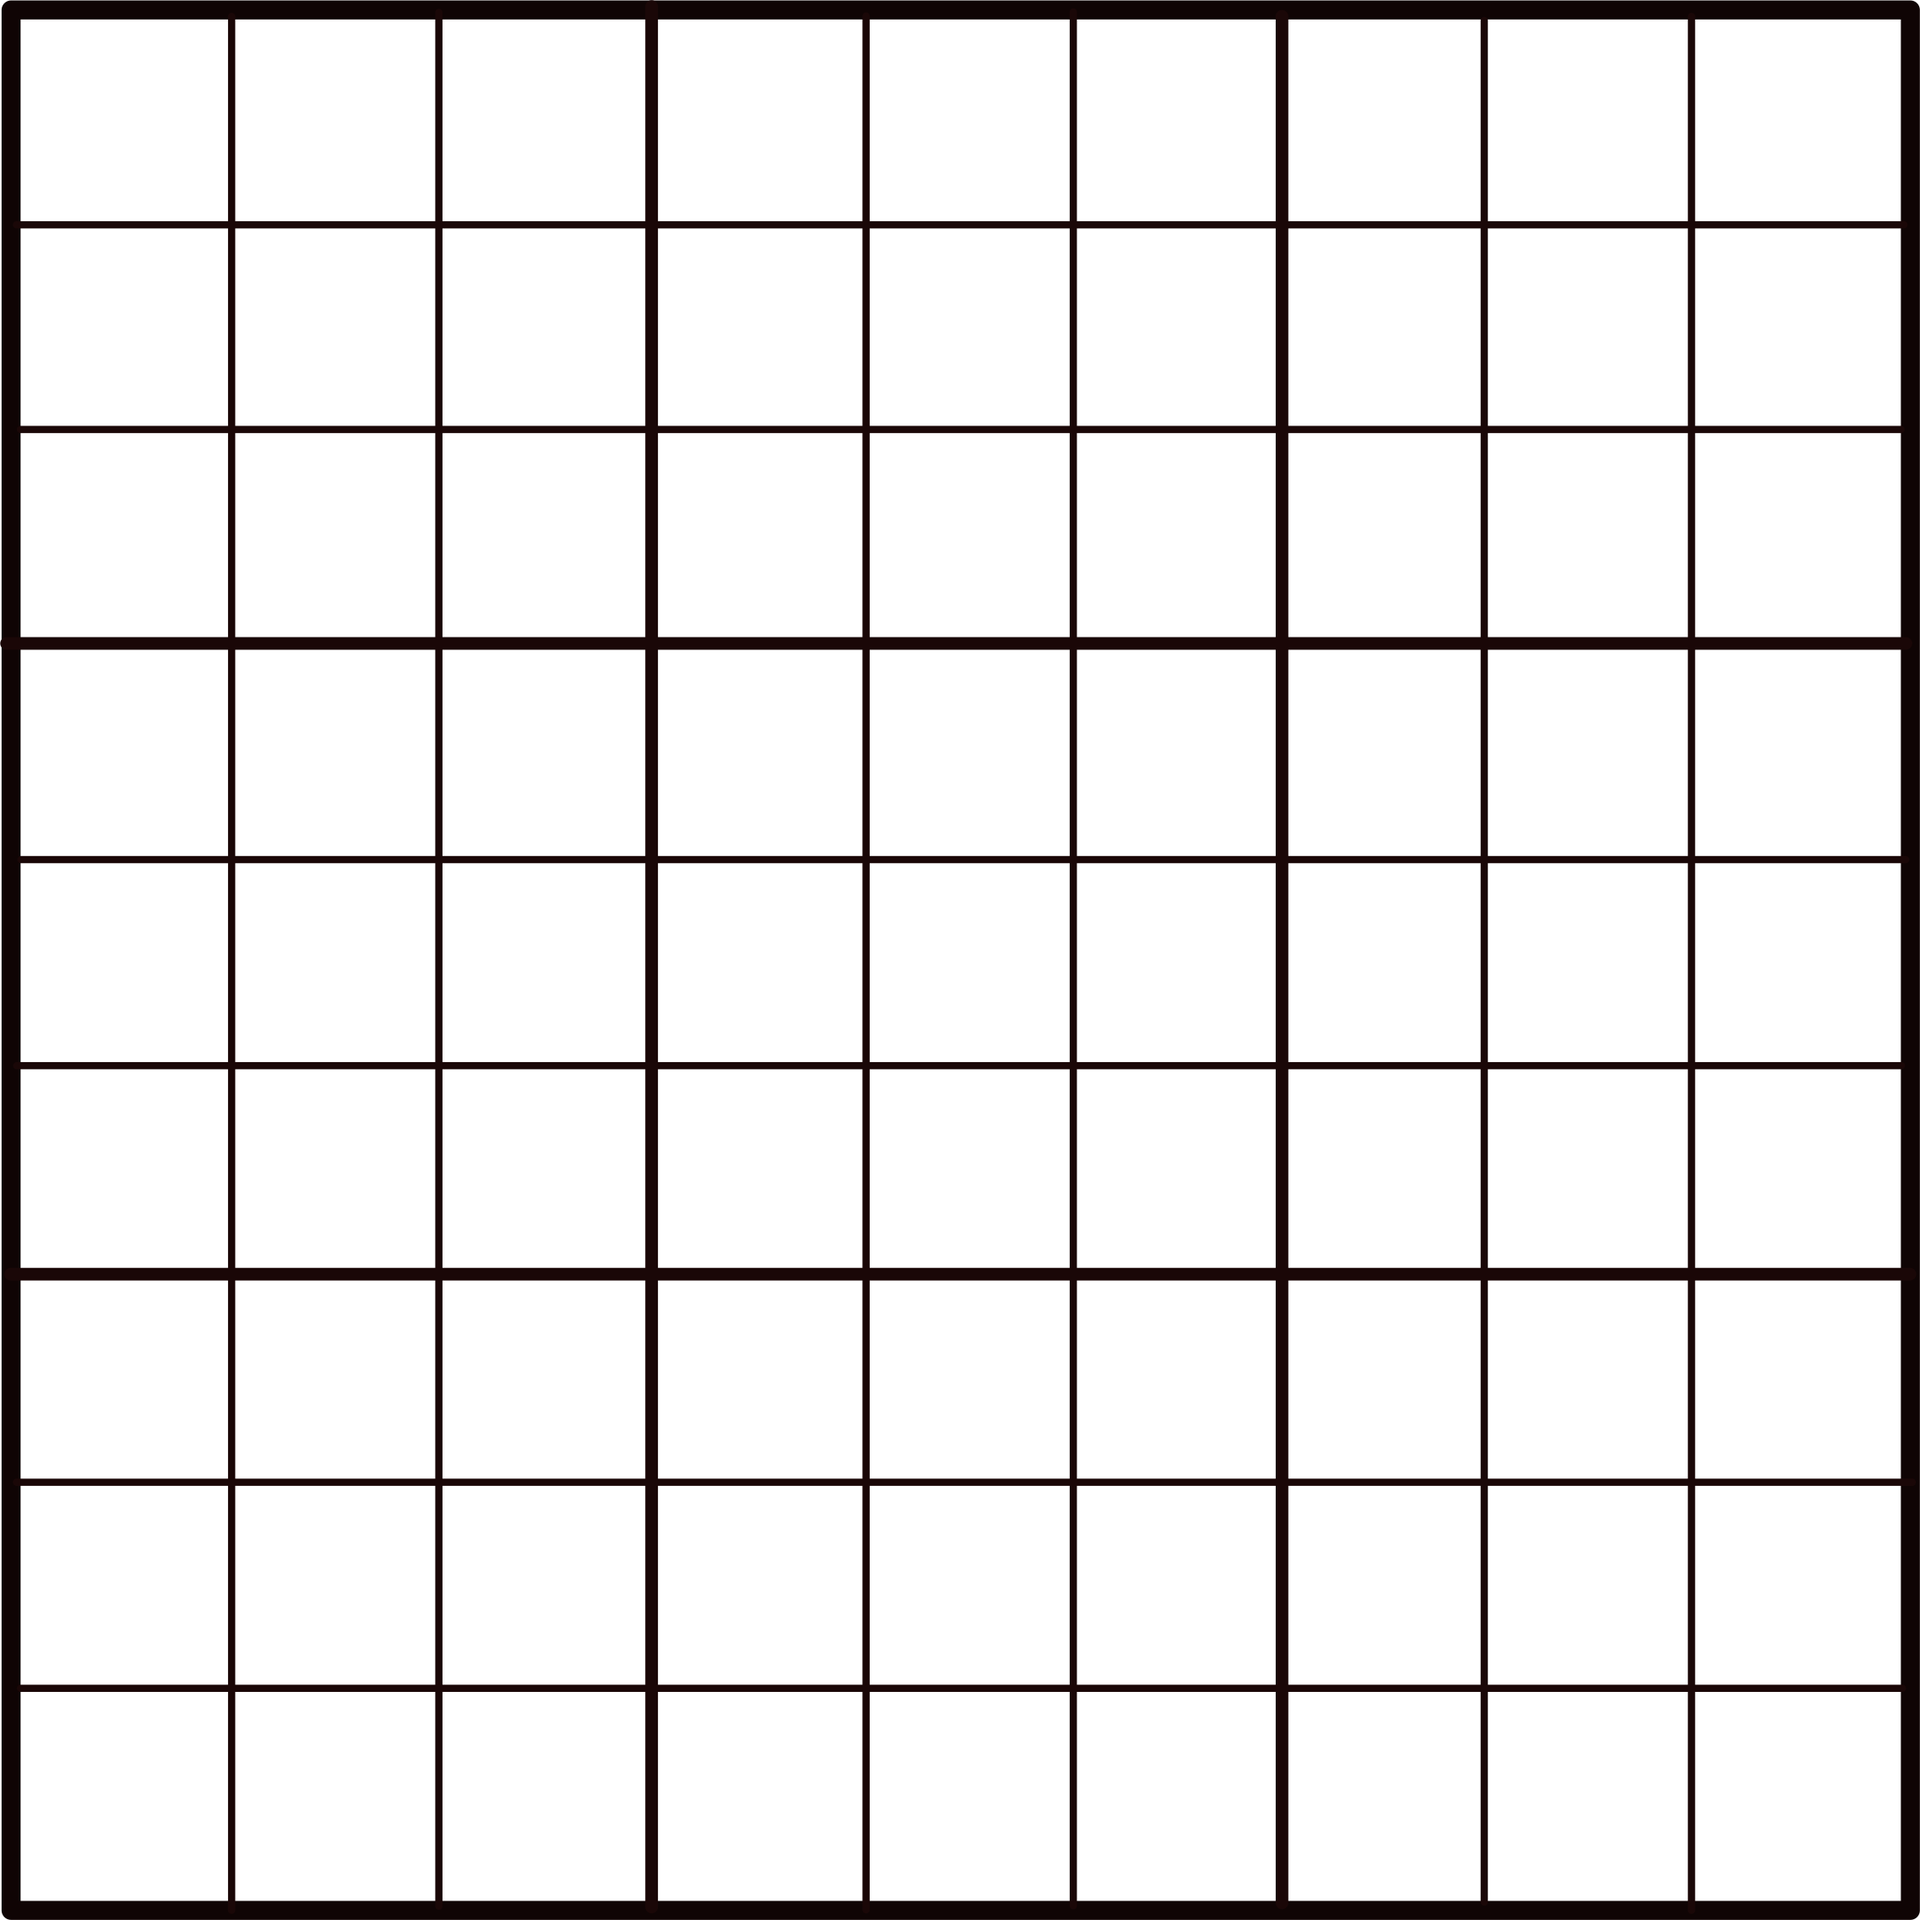
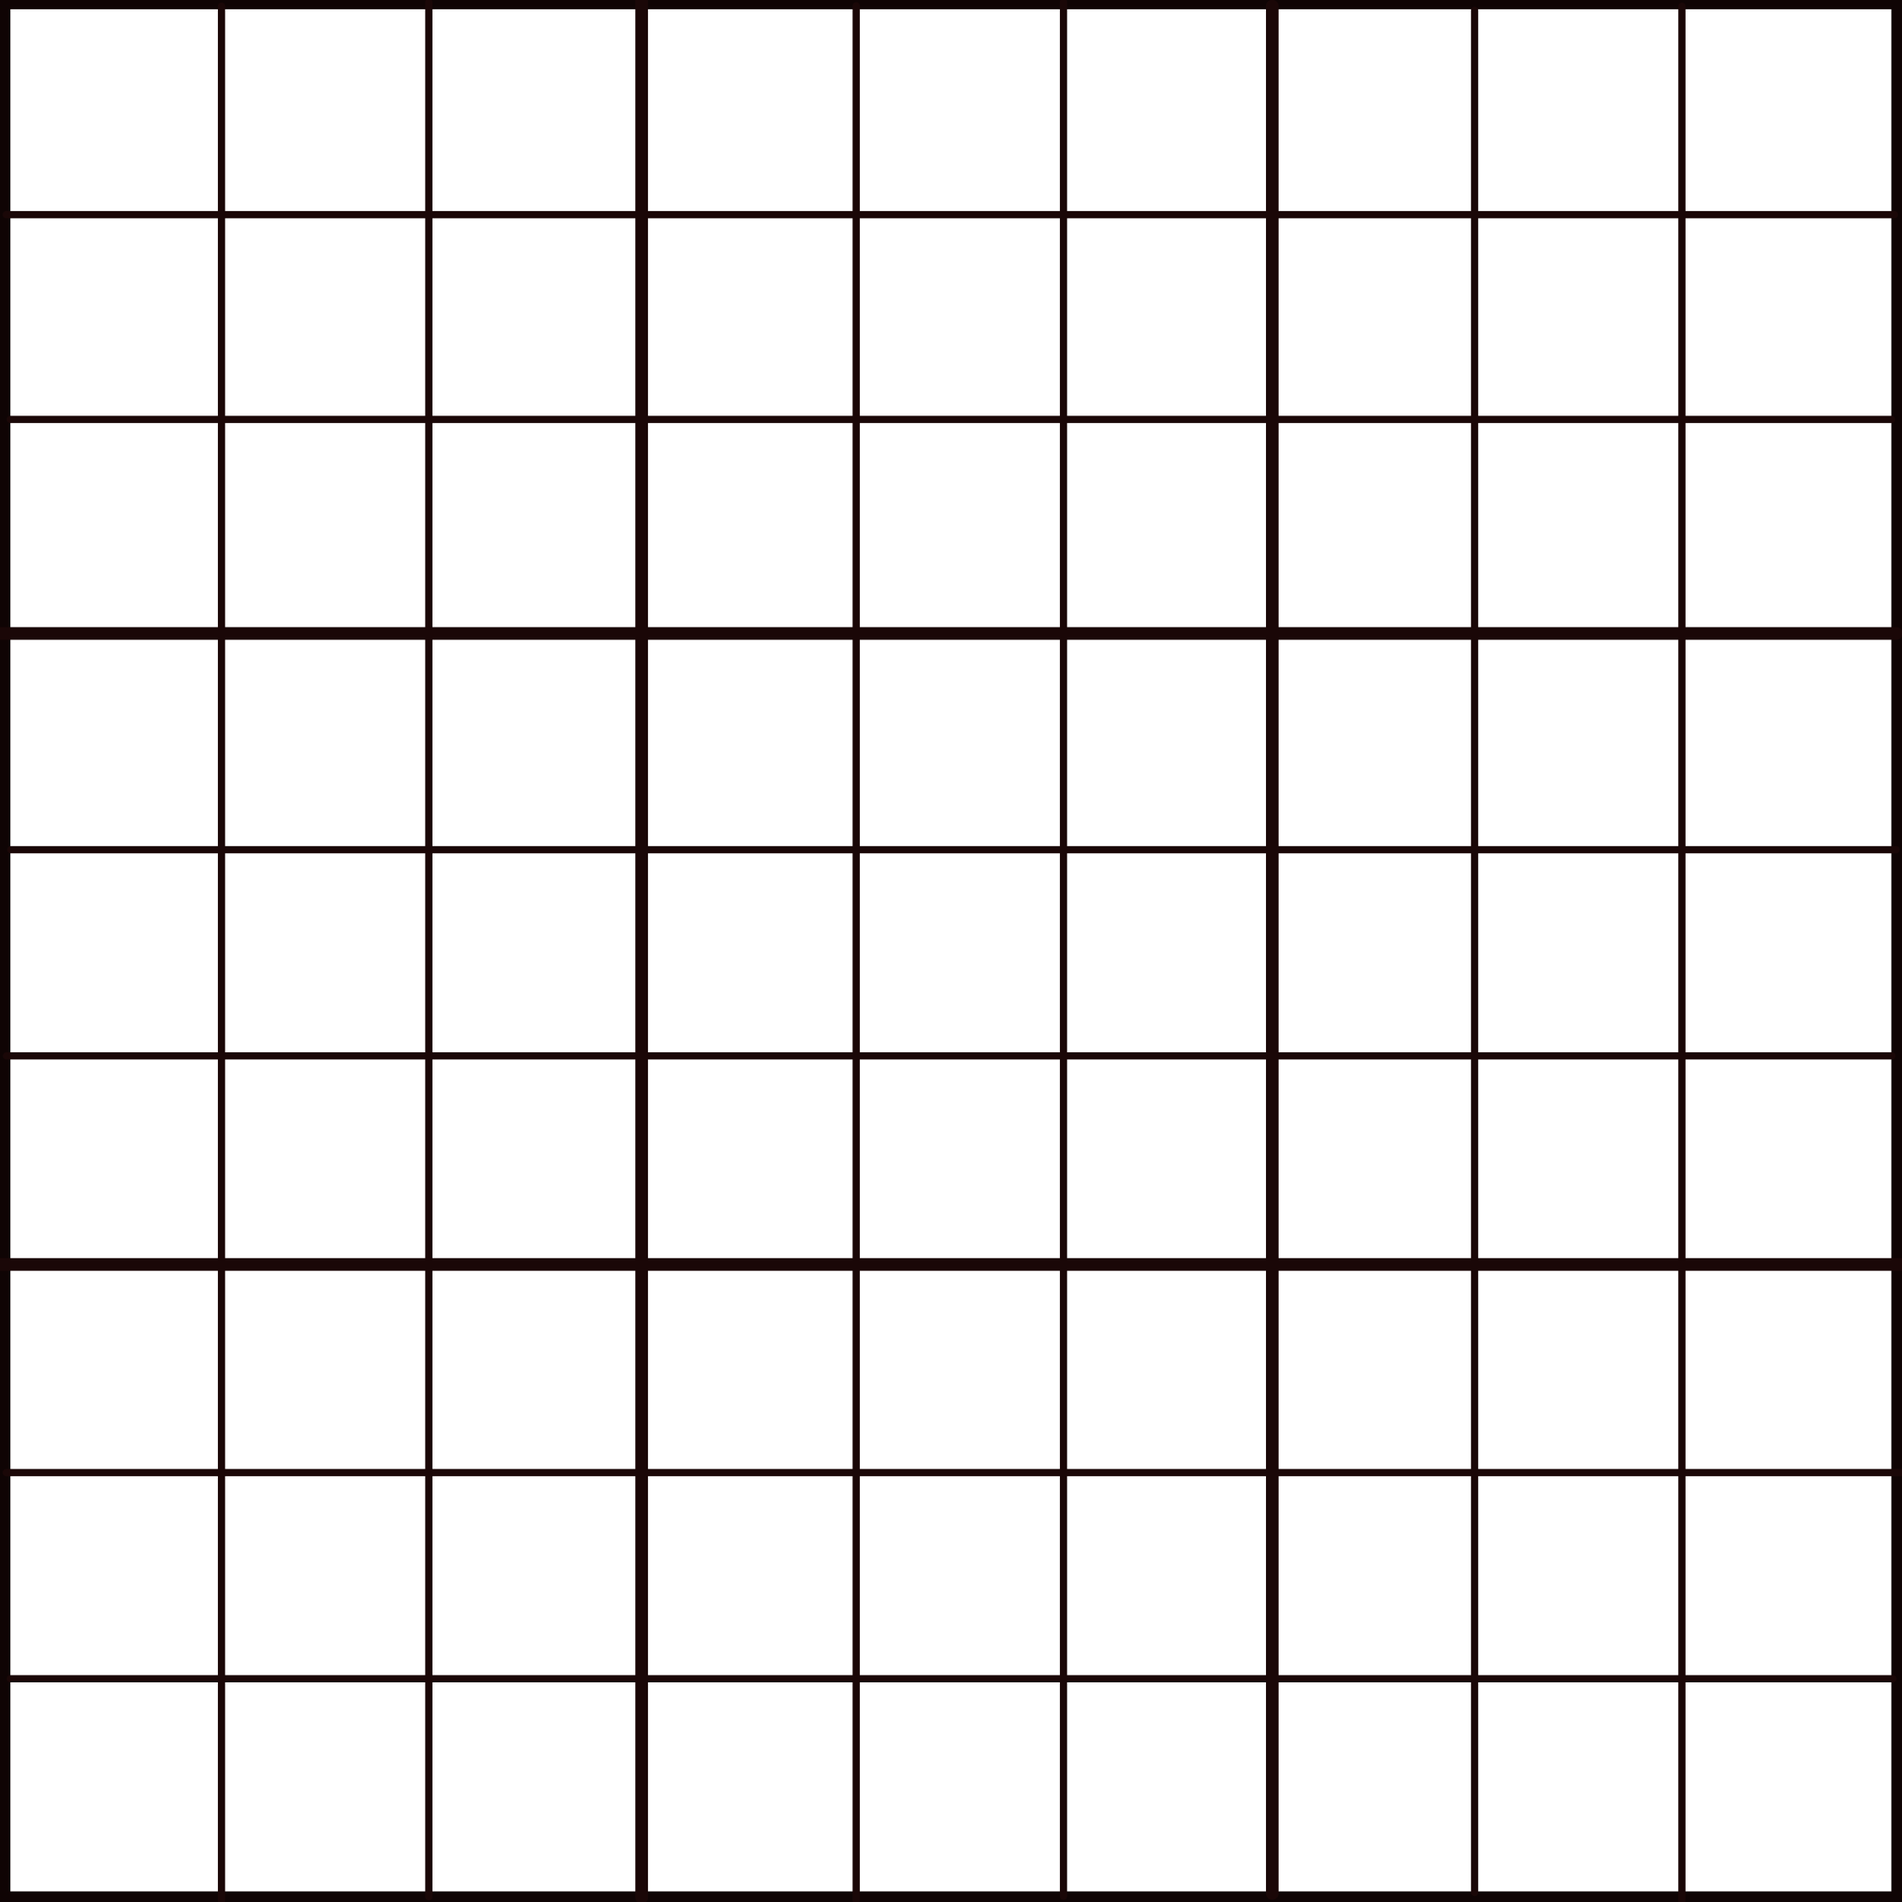
Added more functionality to tiles and tileboard - tweaked images

Changed region(s): [[0.0, 0.0, 1.0, 1.0], [0.4324, 0.556, 0.4633, 0.5868], [0.3089, 0.556, 0.3397, 0.5868]]

diff --git a/src/sudoku/GameState.java b/src/sudoku/GameState.java
@@ -22,23 +22,11 @@ public class GameState extends State {
     private Button pauseButton;
     private Button menuButton;
 
-    private Tile[] tiles = new Tile[9];
+    private Tile[] tiles = new Tile[81];
 
-//    private Tile number1Tile;
-//    private Tile number2Tile;
-//    private Tile number3Tile;
-//    private Tile number4Tile;
-//    private Tile number5Tile;
-//    private Tile number6Tile;
-//    private Tile number7Tile;
-//    private Tile number8Tile;
-//    private Tile number9Tile;
+    private Puzzle puzzle;
 
-    private TileBoard target;
-
-    private ArrayList<String> puzzles = new ArrayList<String>();
-//    private final int MAX_ROUNDS = 3;
-//    private int currentRound = 1;
+    private TileBoard tileBoard;
 
     // game states
     private enum GameStates {
@@ -62,12 +50,28 @@ public class GameState extends State {
 
         addBackground("resources/Blue-Background.jpg");
 
-//        loadPuzzles();
-        // create banner image and add animation
-//        banner = new ImageEntity(new Dimension((int)(0.4*width),(int) (0.3*height)), new Point((int)(width/2.0), (int) (-0.3*height)), 0);
-//        banner.addImage("resources/banner.png");
-//        banner.slide(new Point((int)(0.5*width), (int)(0.15*height)), 15);
-        target = new TileBoard(new Dimension((int) (0.72 * height), (int) (0.72 * height)), new Point((int) (0.4 * height), (int) (0.4 * height)));
+        String puzzleString = "2 4 8 5 3 9 6 7 1 6 7 5 4 1 2 8 9 3 3 9 1 6 7 8 2 4 5 7 1 2 8 6 3 9 5 4 4 3 6 1 9 5 7 8 2 5 8 9 2 4 7 1 3 6 8 2 4 9 5 6 3 1 7 9 5 7 3 2 1 4 6 8 1 6 3 7 8 4 5 2 9";
+        String maskString = "1 1 0 0 0 1 1 1 1 1 1 0 1 0 0 1 1 1 0 0 0 1 1 1 1 1 1 0 1 1 1 1 0 1 0 1 0 0 1 1 1 1 1 0 0 1 0 1 0 1 1 1 1 0 1 1 1 1 1 1 0 0 0 1 1 1 0 0 1 0 1 1 1 1 1 1 0 0 0 1 1";
+
+        puzzle = new Puzzle(puzzleString, maskString);
+
+        tileBoard = new TileBoard(new Dimension((int) (0.72 * height), (int) (0.72 * height)), new Point((int) (0.4 * height), (int) (0.4 * height)));
+
+        //creating tiles
+        for (int i = 0; i < 81; i++) {
+            if (puzzle.elementAtIndex(i) != 0) {
+                tiles[i] = new Tile(new Dimension((int) (height * 0.08), (int) (height * 0.08)),
+                        tileBoard.anchorAtIndex(i),
+                        puzzle.elementAtIndex(i));
+            } else {
+
+                tiles[i] = new Tile(new Dimension((int) (height * 0.08), (int) (height * 0.08)),
+                        new Point((int) (width / 2), (int) (height / 2)),
+                        9);
+                addMouseListener(tiles[i]);
+                addMouseMotionListener(tiles[i]);
+            }
+        }
 
         pauseButton = new Button((int) (0.25 * width), new Point((int) (0.9 * width), (int) (0.75 * height)), 0, "Pause", Button.ButtonType.MENU);
         addMouseListener(pauseButton);
@@ -77,17 +81,14 @@ public class GameState extends State {
 
         int xOffset = (int) (0.01 * height);
         //int xStart = (int)();
-        
-        
+
         // create and place tiles
-        for (int i = 0; i < tiles.length; i++) {
-            tiles[i] = new Tile(new Dimension((int) (height * 0.08), (int) (height * 0.08)), new Point((int) ((height * 0.11) + i * (height * 0.11)), (int) (height * 0.85)), i + 1);
-            addMouseListener(tiles[i]);
-            addMouseMotionListener(tiles[i]);
-
-        }
-
-
+//        for (int i = 0; i < tiles.length; i++) {
+//            tiles[i] = new Tile(new Dimension((int) (height * 0.08), (int) (height * 0.08)), new Point((int) ((height * 0.11) + i * (height * 0.11)), (int) (height * 0.85)), i + 1);
+//            addMouseListener(tiles[i]);
+//            addMouseMotionListener(tiles[i]);
+//
+//        }
     }
 
     @Override
@@ -95,7 +96,7 @@ public class GameState extends State {
 
         super.paintComponent(g);
 
-        target.paint(bufferedGraphics);
+        tileBoard.paint(bufferedGraphics);
         //banner.paint(bufferedGraphics);
         pauseButton.paint(bufferedGraphics);
         menuButton.paint(bufferedGraphics);
@@ -103,16 +104,6 @@ public class GameState extends State {
         for (int i = 0; i < tiles.length; i++) {
             tiles[i].paint(bufferedGraphics);
         }
-
-//        number1Tile.paint(bufferedGraphics);
-//        number2Tile.paint(bufferedGraphics);
-//        number3Tile.paint(bufferedGraphics);
-//        number4Tile.paint(bufferedGraphics);
-//        number5Tile.paint(bufferedGraphics);
-//        number6Tile.paint(bufferedGraphics);
-//        number7Tile.paint(bufferedGraphics);
-//        number8Tile.paint(bufferedGraphics);
-//        number9Tile.paint(bufferedGraphics);
 
         if (screenMessageCounter > 0) {
             bufferedGraphics.setColor(Color.YELLOW);
@@ -172,23 +163,21 @@ public class GameState extends State {
             //banner.update();
             pauseButton.update();
             menuButton.update();
-            
-            
+
             // Collision detection - was the tile dropped
-            for (int i = 0; i < tiles.length; i++) { 
-                
-                if(tiles[i].isDropped()){
+            for (int i = 0; i < tiles.length; i++) {
+
+                if (tiles[i].isDropped()) {
                     tiles[i].setDropped(false);
-                    target.tileDropped(tiles[i]);                  
-                }               
+                    tileBoard.tileDropped(tiles[i]);
+                }
             }
-            
-            
-            for (int i = 0; i < tiles.length; i++) {               
+
+            for (int i = 0; i < tiles.length; i++) {
                 tiles[i].update();
             }
 
-            target.update();
+            tileBoard.update();
 
             //transition delay for exiting to menu
             if (transitionTimer > 0) {

diff --git a/src/sudoku/Puzzle.java b/src/sudoku/Puzzle.java
@@ -1,0 +1,104 @@
+/*
+ * To change this license header, choose License Headers in Project Properties.
+ * To change this template file, choose Tools | Templates
+ * and open the template in the editor.
+ */
+package sudoku;
+
+import java.util.ArrayList;
+import java.util.Arrays;
+import java.util.Scanner;
+
+/**
+ * @section Academic Integrity I certify that this work is solely my own and
+ * complies with NBCC Academic Integrity Policy (policy 1111)
+ * @author Melanie Roy-Plommer
+ */
+public class Puzzle {
+
+    public int[] puzzle = new int[81];
+    public boolean[] mask = new boolean[81];
+
+    public Puzzle(String puzzle, String mask) {
+
+        setPuzzle(puzzle);
+        setMask(mask);
+
+    }
+    
+    public int elementAtIndex(int index){
+        if(!mask[index])
+            return puzzle[index]; 
+        
+        return 0;    
+    }
+
+//    public boolean guessDigit(int pos, int guess) {
+//        if (mask[pos] && guess == puzzle[pos]) {
+//            mask[pos] = false;
+//            return true;
+//        }
+//        return false;
+//    }
+
+    private void setPuzzle(String puzzle) {
+        Scanner line = new Scanner(puzzle);
+        int puzzleIndex = 0;
+        while (line.hasNextInt()) {
+            this.puzzle[puzzleIndex++] = line.nextInt();
+        }
+        line.close();
+    }
+
+    private void setMask(String mask) {
+        Scanner line = new Scanner(mask);
+        int maskIndex = 0;
+        while (line.hasNextInt()) {
+            int temp = line.nextInt();
+            if(temp == 1)
+                this.mask[maskIndex++]= true;
+            else
+                this.mask[maskIndex++]= false;
+        }
+        line.close();
+    }
+
+    /**
+     * *
+     * returns the current puzzle with remaining masks applied
+     *
+     * @return
+     */
+    public int[] getCurrentMaskedPuzzle() {
+        int[] currentMaskedPuzzle = new int[81];
+
+        for (int i = 0; i < 81; i++) {
+            // Setting an element to false uncovers a hint
+            if (!mask[i]) {
+                currentMaskedPuzzle[i] = puzzle[i];
+            } else {
+                currentMaskedPuzzle[i] = 0;
+            }
+        }
+
+        return currentMaskedPuzzle;
+    }
+
+    /**
+     * *
+     * checks if all the hints are visible
+     *
+     * @return
+     */
+    public boolean isPuzzleSolved() {
+
+        for (int j = 0; j < 81; j++) {
+            //as soon as the check is false the puzzle is not solved
+            if (!mask[j]) {
+                return false;
+            }
+        }
+        return true;
+    }
+
+}

diff --git a/src/sudoku/TileBoard.java b/src/sudoku/TileBoard.java
@@ -17,17 +17,37 @@ import java.awt.Point;
  */
 public class TileBoard extends ImageEntity{
 
+    private Point[] anchors = new Point[81];
+    
     public TileBoard(Dimension size, Point position) {
         super(size, position, 0);
         
+        int yIncrement = (int)(h/9);
+        int xIncrement = (int)(w/9);
+        int yOffset = (int)(yIncrement/2 + x - w/2);
+        int xOffset = (int)(xIncrement/2 + y - h/2);
+        
+        for (int i = 0; i < anchors.length;i++){
+            anchors[i] = new Point(xOffset + (i%9)*xIncrement,yOffset + (int)(i/9)*yIncrement);
+        }
+        
         addImage("resources/SudokuGrid.png");
+    }
+    
+    public Point anchorAtIndex(int index){
+        
+        return anchors[index];
     }
     
     
     public void tileDropped(Tile tile){
         if(contains(tile.getPosition())){
-            tile.setHome(this.getPosition());
-        
+            for(int i = 0; i< anchors.length;i++){
+                if(tile.contains(anchors[i])){
+                    tile.setHome(anchors[i]);
+                    tile.setIsDraggable(false);
+                }
+            }
         }
         tile.snapHome();
     }
